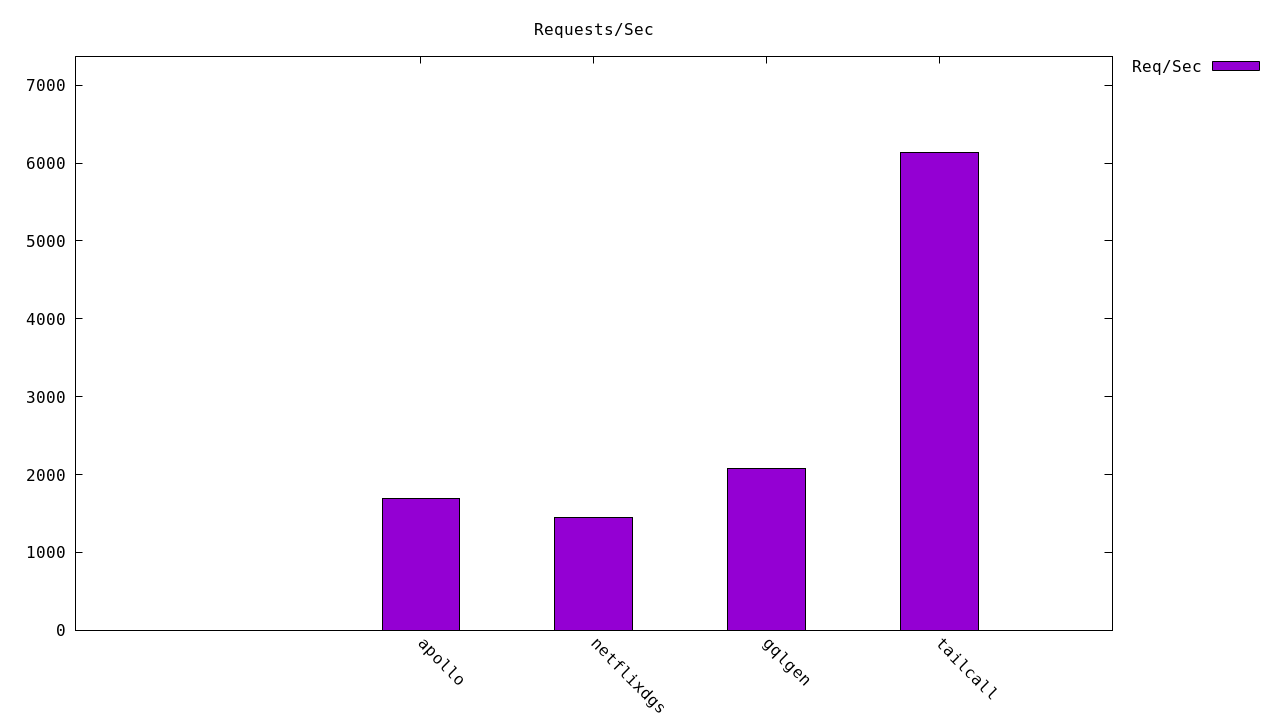
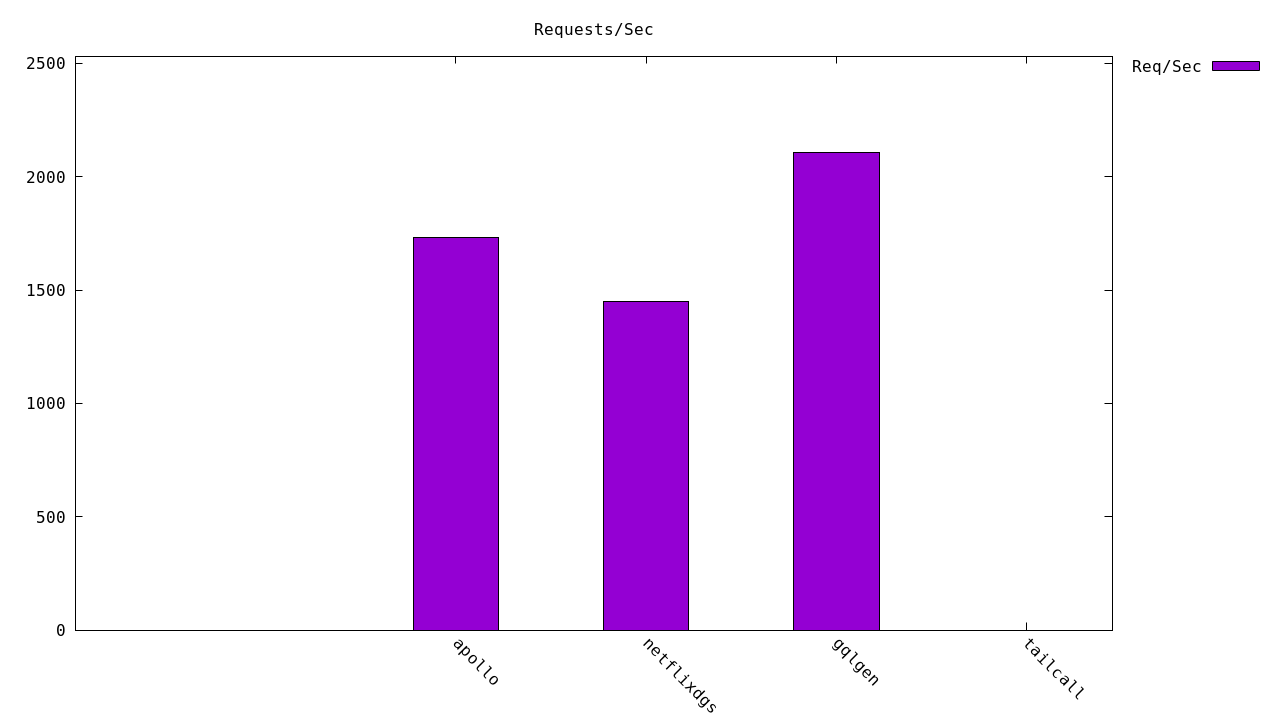
Update performance results in README.md

diff --git a/README.md b/README.md
@@ -45,10 +45,10 @@ Get started with the benchmarks:
 
 | Server | Requests/sec | Latency (ms) |
 |--------:|--------------:|--------------:|
-| [Tailcall] | `6,141.84` | `16.16` |
-| [Gqlgen] | `2,077.02` | `49.61` |
-| [Apollo GraphQL] | `1,687.59` | `59.22` |
-| [Netflix DGS] | `1,452.34` | `71.90` |
+| [Gqlgen] | `2,108.13` | `49.26` |
+| [Apollo GraphQL] | `1,733.50` | `57.61` |
+| [Netflix DGS] | `1,449.63` | `89.12` |
+| [Tailcall] | `-nan` | `-nan` |
 
 <!-- PERFORMANCE_RESULTS_END -->
 
